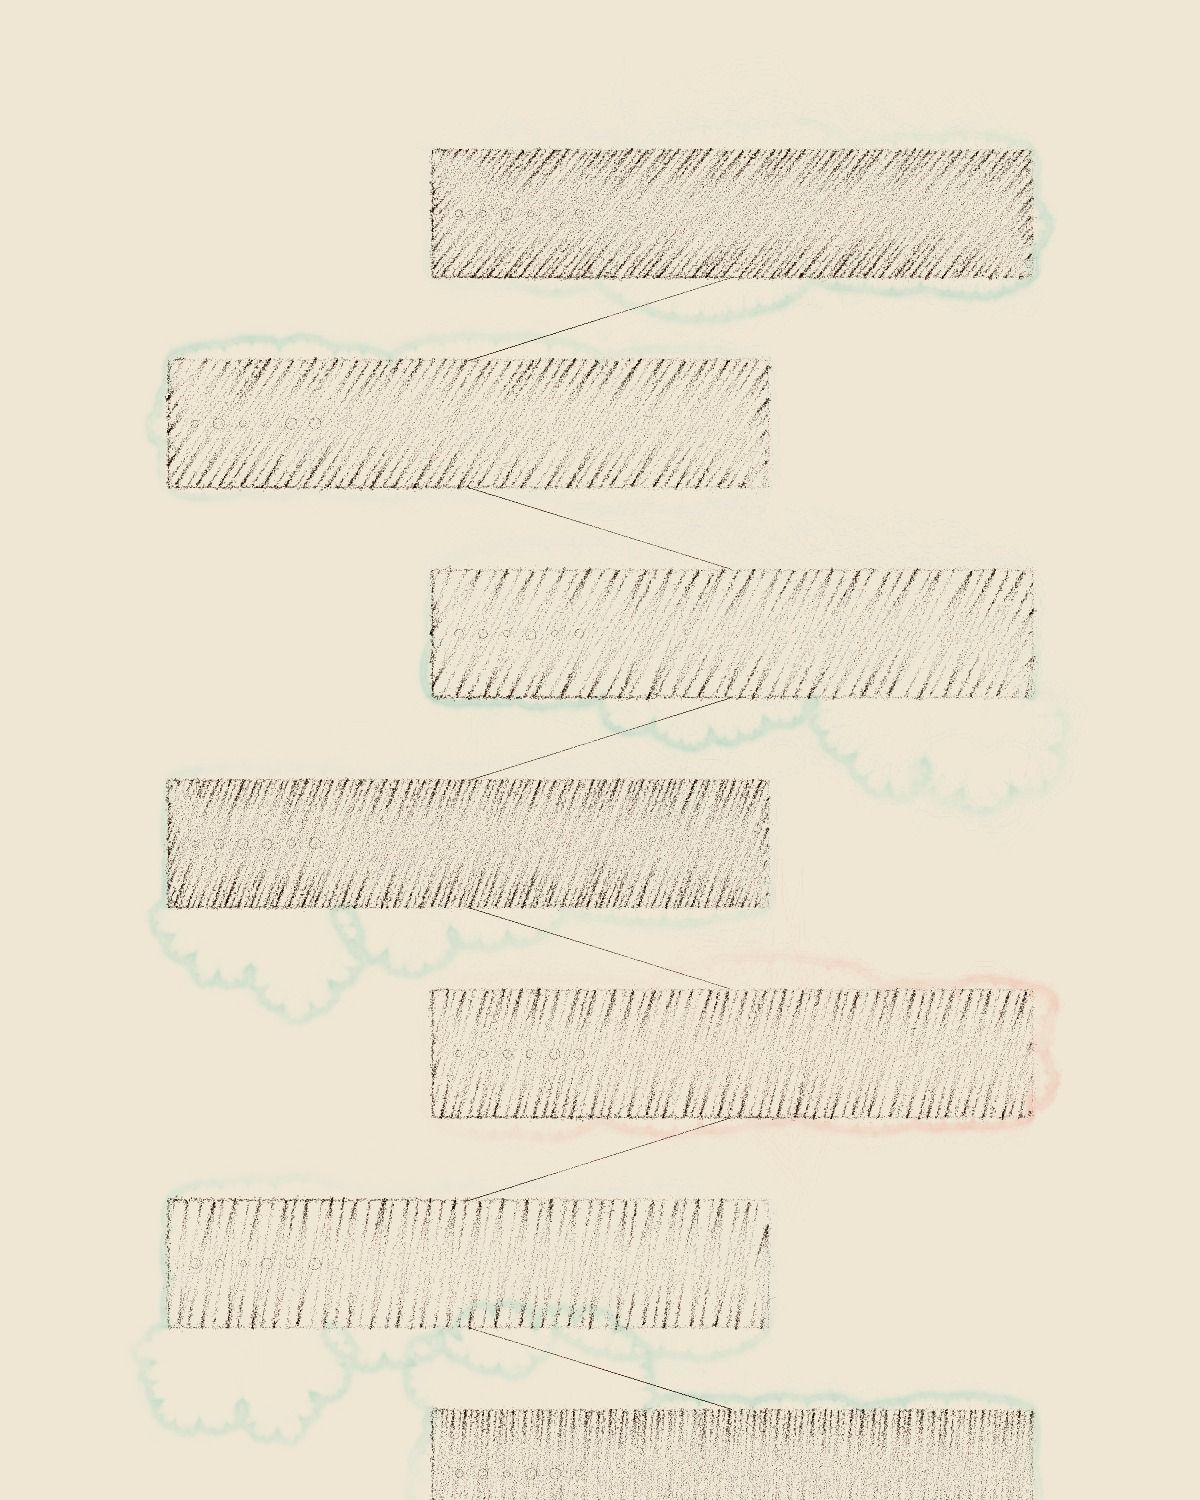
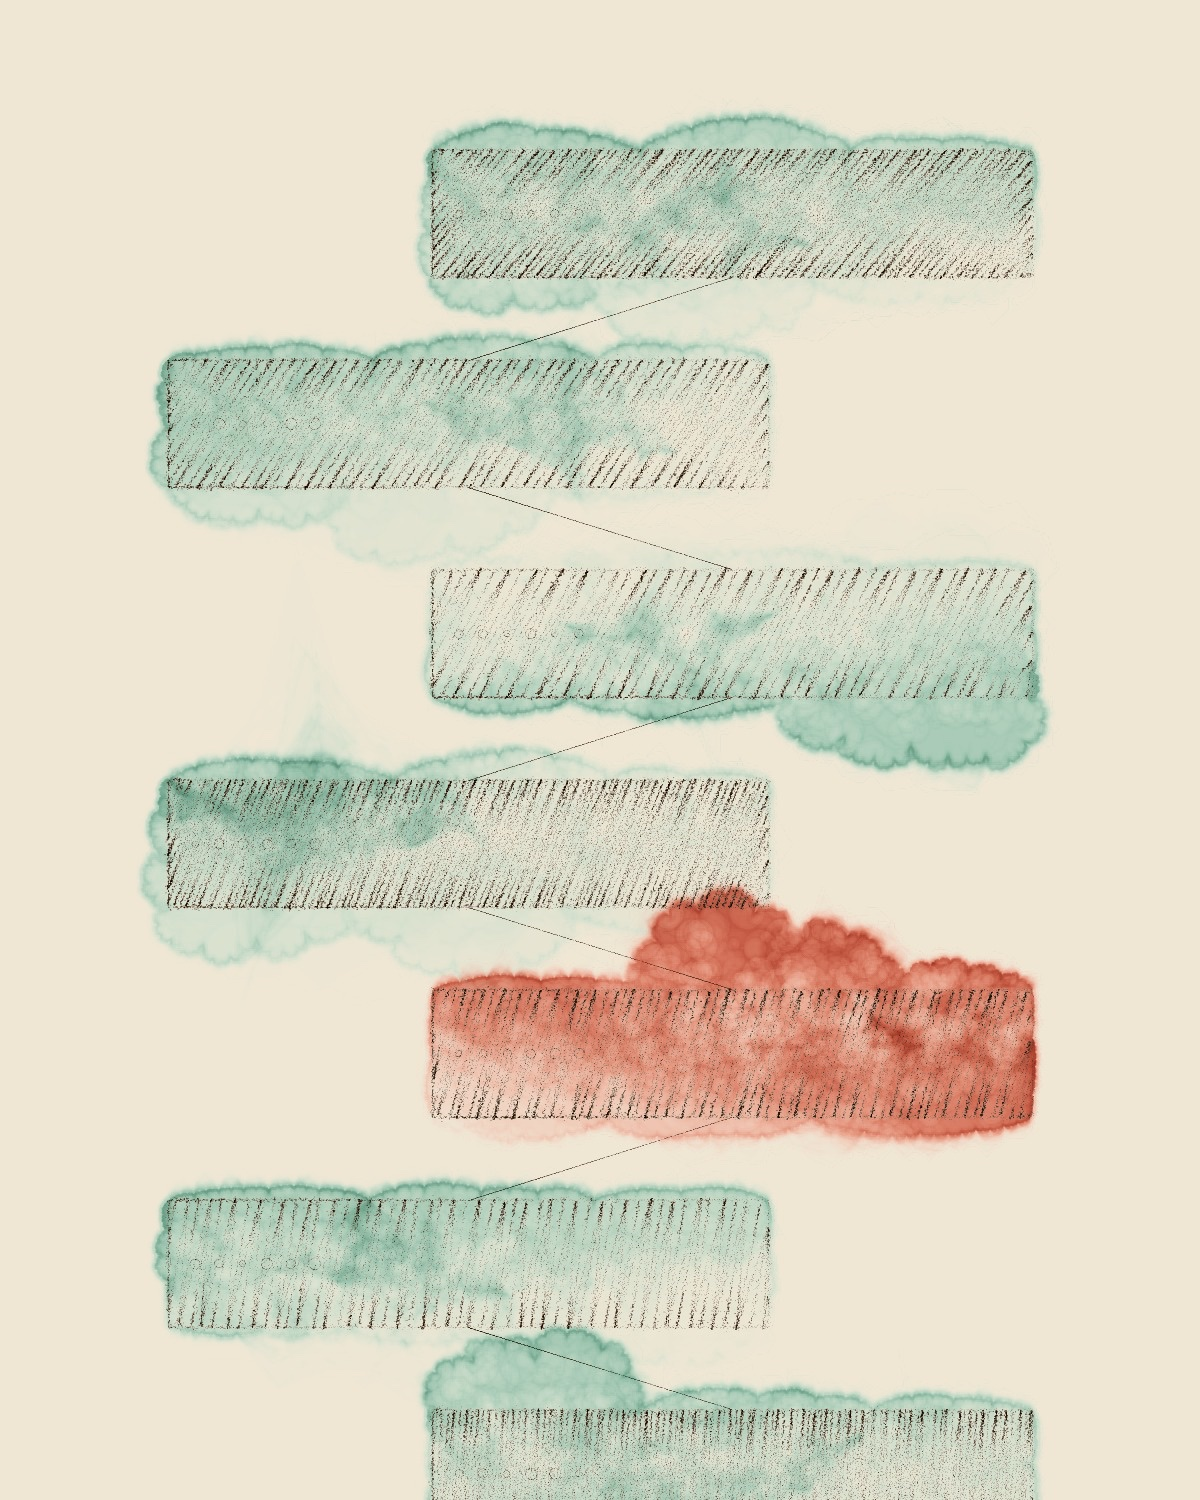
Core recipe: code beside the painting, built layer by layer; open contact form, clearer social links; drop template post

diff --git a/src/pages/CoreHome.tsx b/src/pages/CoreHome.tsx
@@ -1,4 +1,4 @@
-import { useEffect, useState } from 'react'
+import { useEffect, useRef, useState } from 'react'
 import { Link } from 'react-router-dom'
 import { ContactForm } from '../components/ContactForm'
 import { InkTrail } from '../components/InkTrail'
@@ -10,29 +10,84 @@ import { projects, builds } from '../content/projects'
 import { paintingSrc, plateSrc, plateSet, plateBySlug } from '../content/art'
 import { posts } from '../posts'
 
-/** "Recipe" for the paintings: steps, plus the real source of each plate, fetched only when opened. */
+/** Splits a plate's source at its layer('…') calls: a header, then one block of code per step. */
+function steps(src: string) {
+  const out: { label: string; code: string }[] = [{ label: '', code: '' }]
+  for (const line of src.split('\n')) {
+    const m = line.match(/^\s*layer\('(.+?)'\)/)
+    if (m) out.push({ label: m[1], code: line })
+    else out[out.length - 1].code += (out[out.length - 1].code ? '\n' : '') + line
+  }
+  return out
+}
+
+/**
+ * "Recipe" for the paintings: the steps in words, then each plate's real source beside the painting as it stood after
+ * every layer() step. Those in-between paintings were pre-rendered too, so nothing paints in the browser. The source
+ * and images load only when the recipe is opened.
+ */
 function Recipe() {
   const { l } = useI18n()
   const [code, setCode] = useState('')
   const [pick, setPick] = useState(projects[0].slug)
-  const load = () => { if (!code) import('../lab/art/plates.ts?raw').then((m) => setCode(m.default)) }
+  const [step, setStep] = useState(0)
+  const [playing, setPlaying] = useState(false)
+  const codeBox = useRef<HTMLDivElement>(null)
+  const load = () => { if (!code) import('../lab/art/plates.ts?raw').then((m) => { setCode(m.default); setStep(0); setPlaying(true) }) }
   const id = plateBySlug[pick]?.id
   const src = (code.match(new RegExp(`// <plate:${id}>([\\s\\S]*?)// </plate:${id}>`)) ?? [])[1]?.trim() ?? ''
+  const blocks = steps(src)
+  const n = blocks.length - 1
+  const img = (k: number) => (k === n ? paintingSrc(`plate-${id}`, 600) : `/art/paintings/plate-${id}-l${k}-600.jpg`)
+
+  // play through the layers one by one
+  useEffect(() => {
+    if (!playing) return
+    if (step >= n) { setPlaying(false); return }
+    const t = setTimeout(() => setStep((s) => s + 1), step === 0 ? 500 : 1300)
+    return () => clearTimeout(t)
+  }, [playing, step, n])
+  // keep the current block in view inside the code panel (without scrolling the page)
+  useEffect(() => {
+    const box = codeBox.current, cur = box?.querySelector<HTMLElement>('[data-cur]')
+    if (box && cur) box.scrollTo({ top: cur.offsetTop - 40, behavior: 'smooth' })
+  }, [step, pick])
+
+  const choose = (slug: string) => { setPick(slug); setStep(0); setPlaying(true) }
   return (
     <details className="one-recipe" onToggle={(e) => (e.currentTarget as HTMLDetailsElement).open && load()}>
       <summary>{l({ en: 'Every painting above was generated with JavaScript. ', es: 'Cada pintura de arriba se generó con JavaScript. ' })}<u>{l({ en: 'The recipe', es: 'La receta' })}</u></summary>
       <ol>
         <li>{l({ en: 'Pick one real number from the project: a fire spreading with the wind, a cost falling from $633 to $29, a score from deepfake to authentic.', es: 'Elige un número real del proyecto: un fuego que avanza con el viento, un coste que cae de 633 $ a 29 $, una puntuación de deepfake a auténtico.' })}</li>
-        <li>{l({ en: 'Draw it with p5.brush: watercolour washes, charcoal, pastel and pen on one WebGL canvas.', es: 'Dibújalo con p5.brush: aguadas de acuarela, carboncillo, pastel y pluma sobre un único lienzo WebGL.' })}</li>
+        <li>{l({ en: 'Draw it with p5.brush: watercolour washes, charcoal, pastel and pen on one WebGL canvas, one layer at a time.', es: 'Dibújalo con p5.brush: aguadas de acuarela, carboncillo, pastel y pluma sobre un único lienzo WebGL, capa a capa.' })}</li>
         <li>{l({ en: 'Seed the randomness so the same code paints the same picture every time.', es: 'Fija la semilla del azar para que el mismo código pinte siempre el mismo cuadro.' })}</li>
         <li>{l({ en: 'Paint once, save it as a JPG, and serve the image. Nothing is painted in your browser.', es: 'Píntalo una vez, guárdalo como JPG y sirve la imagen. Nada se pinta en tu navegador.' })}</li>
       </ol>
       <div className="one-recipe-tabs" role="tablist">
         {projects.filter((p) => plateBySlug[p.slug]).map((p) => (
-          <button key={p.slug} role="tab" aria-selected={pick === p.slug} onClick={() => setPick(p.slug)}>{p.title}</button>
+          <button key={p.slug} role="tab" aria-selected={pick === p.slug} onClick={() => choose(p.slug)}>{p.title}</button>
         ))}
       </div>
-      <pre className="one-recipe-code">{code ? src : '…'}</pre>
+      {code && (
+        <div className="one-split">
+          <div className="one-split-code" ref={codeBox}>
+            {blocks.map((b, k) => (
+              <button key={pick + k} className="one-block" data-state={k === 0 || k < step ? 'done' : k === step ? 'cur' : 'todo'} data-cur={k === step || undefined}
+                onClick={() => { setPlaying(false); setStep(k) }} disabled={k === 0}>
+                {b.label && <span className="one-block-label">{String(k).padStart(2, '0')} · {b.label}</span>}
+                <code>{b.code}</code>
+              </button>
+            ))}
+          </div>
+          <div className="one-split-art">
+            {blocks.slice(1).map((_, i) => <img key={pick + i} src={img(i + 1)} alt="" style={{ opacity: i + 1 <= step ? 1 : 0 }} />)}
+            <div className="one-split-bar">
+              <span>{step ? `${l({ en: 'Layer', es: 'Capa' })} ${step}/${n} · ${blocks[step].label}` : l({ en: 'Blank paper', es: 'Papel en blanco' })}</span>
+              <button onClick={() => { setStep(0); setPlaying(true) }}>{l({ en: 'Replay', es: 'Repetir' })}</button>
+            </div>
+          </div>
+        </div>
+      )}
     </details>
   )
 }
@@ -126,11 +181,14 @@ export default function CoreHome() {
       <section className="one-sec" id="contact">
         <h2>{l({ en: 'Contact', es: 'Contacto' })}</h2>
         <a className="one-mail" href={`mailto:${profile.email}`}>{profile.email}</a>
-        <p className="one-after"><a href={profile.linkedin} target="_blank" rel="noreferrer">LinkedIn</a>, <a href={profile.github} target="_blank" rel="noreferrer">GitHub</a></p>
-        <details className="one-form">
-          <summary>{l({ en: 'Or write here', es: 'O escribe aquí' })}</summary>
+        <div className="one-social">
+          <a href={profile.linkedin} target="_blank" rel="noreferrer">LinkedIn <span aria-hidden>↗</span></a>
+          <a href={profile.github} target="_blank" rel="noreferrer">GitHub <span aria-hidden>↗</span></a>
+        </div>
+        <div className="one-form">
+          <p className="one-dim">{l({ en: 'Or write here', es: 'O escribe aquí' })}</p>
           <ContactForm />
-        </details>
+        </div>
       </section>
 
       <footer className="one-foot"><span>© 2026</span><span>{l({ en: 'Hand-made in Madrid', es: 'Hecho a mano en Madrid' })}</span></footer>

diff --git a/src/lab/art/plates.ts b/src/lab/art/plates.ts
@@ -1,8 +1,9 @@
-import { rng, type Sketch } from './paint'
+import { rng, layer, type Sketch } from './paint'
 
 /**
  * Each plate is a short sketch painted with p5.brush from a real number in the project it illustrates.
- * The markers let the Plates page show the exact source ("view source").
+ * The markers let the Plates page show the exact source ("view source"). Each layer() call starts a step of the
+ * recipe; the site shows the painting as it stood after every step.
  */
 const INK = '#17110c'
 
@@ -11,9 +12,12 @@ const INK = '#17110c'
 export const plateFire: Sketch = (b, W, H) => {
   const R = rng(3)
   const wind = 16 // degrees of lean to the right
+  layer('Night sky')
   b.noStroke(); b.fill('#1b2b5a', 170); b.fillBleed(0.5); b.fillTexture(0.6, 0.5)
   b.rect(36, 36, W - 72, H * 0.5)
-  b.fill('#f2d9a0', 150); b.circle(W * 0.78, H * 0.17, 46) // moon
+  layer('Moon')
+  b.fill('#f2d9a0', 150); b.circle(W * 0.78, H * 0.17, 46)
+  layer('Fire front')
   // one flame stroke = a path that climbs, curls a little, and leans with the wind
   const flame = (x: number, y: number, len: number, curl: number) => {
     const pts: [number, number][] = [[x, y]]
@@ -32,9 +36,11 @@ export const plateFire: Sketch = (b, W, H) => {
     b.set(heat > 0.8 ? 'pastel' : heat > 0.35 ? 'charcoal' : '2B', heat > 0.86 ? '#f5c451' : heat > 0.5 ? '#ea5a2c' : heat > 0.2 ? '#a42d1a' : '#3a0f0a', 0.7 + R() * 1.5)
     b.spline(flame(x, y, len, 60), 1)
   }
+  layer('Embers')
   b.set('pen', '#f5c451', 0.5)
   for (let i = 0; i < 60; i++) b.circle(W * 0.1 + R() * W * 0.8, H * (0.1 + R() * 0.75), 0.8 + R() * 2.5) // embers
-  b.noStroke(); b.fill('#14100d', 230); b.rect(0, H * 0.965, W, H * 0.04) // ground
+  layer('Ground')
+  b.noStroke(); b.fill('#14100d', 230); b.rect(0, H * 0.965, W, H * 0.04)
 }
 // </plate:fire>
 
@@ -48,15 +54,19 @@ export const plateCost: Sketch = (b, W, H) => {
     const cost = 29 + (633 - 29) * Math.exp(-4.2 * t)
     pts.push([70 + t * (W - 140), H * 0.18 + (1 - (cost - 29) / 604) * H * 0.62])
   }
+  layer('Wash under the curve')
   b.noStroke(); b.fill('#1f6f6b', 175); b.fillBleed(0.5); b.fillTexture(0.55, 0.5)
   b.polygon([...pts, [W - 70, H * 0.84], [70, H * 0.84]])
+  layer('The line, five passes')
   b.noFill()
-  for (let k = 0; k < 5; k++) { // one hand, five passes
+  for (let k = 0; k < 5; k++) {
     b.set(k === 0 ? 'charcoal' : '2B', INK, 1.1 - k * 0.12)
     b.spline(pts.map(([x, y]) => [x + (R() - 0.5) * 5, y + (R() - 0.5) * 5 + k * 1.5]), 0.9)
   }
+  layer('Axis ticks')
   b.set('HB', INK, 0.5)
   for (let i = 0; i <= 10; i++) b.line(70 + (i / 10) * (W - 140), H * 0.84, 70 + (i / 10) * (W - 140), H * 0.865)
+  layer('$633 and $29')
   b.fill('#8c2a1b', 204); b.set('2B', INK, 0.6); b.circle(pts[0][0], pts[0][1], 20)
   b.fill('#1f6f6b', 230); b.circle(pts[24][0], pts[24][1], 8)
 }
@@ -69,17 +79,19 @@ export const plateChain: Sketch = (b, W, H) => {
   const n = 7, bw = W * 0.5, bh = H * 0.085
   const xs = (i: number) => (i % 2 ? W * 0.14 : W * 0.36)
   const ys = (i: number) => H * 0.1 + i * (bh + H * 0.055)
-  for (let i = 0; i < n; i++) {
-    if (i) { b.set('rotring', INK, 0.5); b.line(xs(i - 1) + bw / 2, ys(i - 1) + bh, xs(i) + bw / 2, ys(i)) }
-    const critical = i === 4
-    b.noStroke(); b.fill(critical ? '#8c2a1b' : '#2d5a45', critical ? 0.7 : 0.35); b.fillBleed(0.4)
-    b.rect(xs(i), ys(i), bw, bh)
-    b.set('HB', INK, 0.7); b.noFill()
-    b.hatch(4 + (i % 3) * 2, 50 + i * 6, { rand: 0.1, continuous: true })
-    b.rect(xs(i), ys(i), bw, bh)
-    b.noHatch()
-    for (let k = 0; k < 6; k++) { b.set('pen', INK, 0.35); b.circle(xs(i) + 18 + k * 16, ys(i) + bh / 2, 2 + R() * 2) } // hash nibbles
-  }
+  layer('Links')
+  b.set('rotring', INK, 0.5)
+  for (let i = 1; i < n; i++) b.line(xs(i - 1) + bw / 2, ys(i - 1) + bh, xs(i) + bw / 2, ys(i))
+  layer('Blocks, one critical')
+  b.noStroke(); b.fillBleed(0.4)
+  for (let i = 0; i < n; i++) { b.fill(i === 4 ? '#8c2a1b' : '#2d5a45', i === 4 ? 179 : 89); b.rect(xs(i), ys(i), bw, bh) }
+  layer('Hatching')
+  b.set('HB', INK, 0.7); b.noFill()
+  for (let i = 0; i < n; i++) { b.hatch(4 + (i % 3) * 2, 50 + i * 6, { rand: 0.1, continuous: true }); b.rect(xs(i), ys(i), bw, bh) }
+  b.noHatch()
+  layer('Hash nibbles')
+  b.set('pen', INK, 0.35)
+  for (let i = 0; i < n; i++) for (let k = 0; k < 6; k++) b.circle(xs(i) + 18 + k * 16, ys(i) + bh / 2, 2 + R() * 2)
 }
 // </plate:chain>
 
@@ -88,8 +100,10 @@ export const plateChain: Sketch = (b, W, H) => {
 export const plateStream: Sketch = (b, W, H) => {
   const R = rng(13)
   const n = 84, base = H * 0.8
+  layer('Chat window wash')
   b.noStroke(); b.fill('#6a2c91', 70); b.fillBleed(0.6); b.fillTexture(0.5, 0.5)
-  b.rect(40, H * 0.08, W - 80, H * 0.46) // the chat window, as a wash
+  b.rect(40, H * 0.08, W - 80, H * 0.46)
+  layer('Message velocity')
   b.noFill()
   for (let i = 0; i < n; i++) {
     const x = 70 + (i / (n - 1)) * (W - 140)
@@ -98,7 +112,9 @@ export const plateStream: Sketch = (b, W, H) => {
     b.set(spike ? 'crayon' : 'charcoal', spike ? '#e3a622' : i % 3 ? '#4b1f6e' : '#8a3fb4', spike ? 1.6 : 0.9)
     b.line(x, base, x + (R() - 0.5) * 6, base - h)
   }
+  layer('Baseline')
   b.set('2B', INK, 0.8); b.line(60, base + 10, W - 60, base + 10)
+  layer('Messages')
   b.noStroke(); b.fill('#c44db0', 180)
   for (let i = 0; i < 220; i++) b.circle(70 + R() * (W - 140), H * 0.1 + R() * H * 0.42, 0.8 + R() * 2.6) // messages
 }
@@ -109,7 +125,9 @@ export const plateStream: Sketch = (b, W, H) => {
 export const plateIris: Sketch = (b, W, H) => {
   const R = rng(21)
   const cx = W / 2, cy = H * 0.46
+  layer('Iris wash')
   b.noStroke(); b.fill('#2c5f8a', 89); b.fillBleed(0.5); b.circle(cx, cy, 300)
+  layer('Fibres, ordered to chaotic')
   const n = 190
   for (let i = 0; i < n; i++) {
     const a = (i / n) * 360
@@ -120,7 +138,9 @@ export const plateIris: Sketch = (b, W, H) => {
     b.set(score > 0.5 ? 'rotring' : '2B', score > 0.5 ? '#1d4e7a' : '#8c2a1b', 0.4 + (1 - score) * 0.7)
     b.line(cx + Math.cos((a * Math.PI) / 180) * r0, cy + Math.sin((a * Math.PI) / 180) * r0, cx + Math.cos((a * Math.PI) / 180) * r1 + jx, cy + Math.sin((a * Math.PI) / 180) * r1 + jy)
   }
+  layer('Pupil')
   b.noStroke(); b.fill('#0b0d12', 242); b.circle(cx, cy, 42)
+  layer('Rim')
   b.set('rotring', INK, 0.9); b.noFill(); b.circle(cx, cy, 285)
 }
 // </plate:iris>
@@ -139,11 +159,16 @@ export const plateHills: Sketch = (b, W, H) => {
     b.set('2B', INK, 0.5); b.noFill(); b.noWash(); b.hatch(7, hatchAngle, { rand: 0.15 })
     b.polygon(shape); b.noHatch()
   }
+  layer('Sky')
   b.noStroke(); b.fill('#9fc3e6', 150); b.fillBleed(0.6); b.rect(30, 30, W - 60, H * 0.5)
+  layer('Sun')
   b.fill('#f5c451', 230); b.circle(W * 0.7, H * 0.2, 62)
-  band(H * 0.5, 44, '#e4572e', 4, 35)   // CO2
-  band(H * 0.66, 38, '#3f8f4f', 8, -30) // land
-  band(H * 0.83, 26, '#2f6fa8', 12, 80) // water
+  layer('CO2')
+  band(H * 0.5, 44, '#e4572e', 4, 35)
+  layer('Land')
+  band(H * 0.66, 38, '#3f8f4f', 8, -30)
+  layer('Water')
+  band(H * 0.83, 26, '#2f6fa8', 12, 80)
 }
 // </plate:hills>
 

diff --git a/src/styles.css b/src/styles.css
@@ -298,12 +298,15 @@ html[data-mode=core],html[data-mode=core][data-theme]{--bg:#fff;--fg:#111;--dim:
 .one-d{color:var(--dim)}
 .one-m{text-align:right;color:var(--dim)}
 .one-after{margin:14px 0 0;color:var(--soft)}
-.one-after a,.one-form summary{text-decoration:underline;text-decoration-color:var(--line);text-underline-offset:3px}
+.one-after a{text-decoration:underline;text-decoration-color:var(--line);text-underline-offset:3px}
 .one-after a:hover{text-decoration-color:currentColor}
 .one-mail{display:inline-block;font:400 clamp(28px,5vw,64px)/1 var(--sans);letter-spacing:-.04em;text-decoration:none;margin-top:6px}
 .one-mail:hover{opacity:.55}
-.one-form{margin-top:22px;max-width:560px}
-.one-form summary{cursor:pointer;color:var(--dim);list-style:none}
+.one-form{margin-top:40px;max-width:560px}
+.one-form>p{margin:0}
+.one-social{display:flex;gap:10px;margin-top:22px}
+.one-social a{display:inline-flex;align-items:center;gap:8px;padding:10px 18px;border:1px solid var(--fg);border-radius:999px;text-decoration:none;font-size:14px;transition:background .2s,color .2s}
+.one-social a:hover{background:var(--fg);color:var(--bg)}
 .one-form .form{margin:14px 0 0}
 .one-form .form label{color:var(--dim);text-shadow:none}
 .one-form .form input,.one-form .form textarea{background:var(--bg);border-color:var(--line);border-radius:0;backdrop-filter:none}
@@ -336,4 +339,18 @@ html[data-mode=core],html[data-mode=core][data-theme]{--bg:#fff;--fg:#111;--dim:
 .one-recipe-tabs{display:flex;flex-wrap:wrap;gap:4px 16px;margin:22px 0 10px}
 .one-recipe-tabs button{font:inherit;font-size:13px;background:none;border:0;padding:0;color:var(--dim);cursor:pointer}
 .one-recipe-tabs button[aria-selected=true]{color:var(--fg);text-decoration:underline;text-underline-offset:3px}
-.one-recipe-code{font:12px/1.55 var(--mono);background:var(--card);color:var(--fg);padding:16px 18px;max-height:340px;overflow:auto;white-space:pre;margin:0}
+/* recipe: code on the left, the painting building up on the right */
+.one-split{display:grid;grid-template-columns:minmax(0,1fr) minmax(0,.8fr);border:1px solid var(--line)}
+.one-split-code{position:relative;overflow:auto;height:0;min-height:100%;background:var(--card);padding:10px 0}
+.one-block{display:block;width:100%;text-align:left;font:inherit;color:inherit;background:none;border:0;border-left:2px solid transparent;padding:6px 16px;cursor:pointer;transition:opacity .4s,border-color .4s,background .4s}
+.one-block:disabled{cursor:default}
+.one-block code{display:block;font:12px/1.6 var(--mono);font-variant-ligatures:none;white-space:pre-wrap;overflow-wrap:anywhere;color:var(--fg)}
+.one-block-label{display:block;font:11px var(--sans);color:var(--dim);margin-bottom:2px}
+.one-block[data-state=todo]{opacity:.28}
+.one-block[data-state=todo]:hover{opacity:.6}
+.one-block[data-state=cur]{border-left-color:var(--fg);background:var(--bg)}
+.one-split-art{position:relative;aspect-ratio:4/5;background:#efe6d4;align-self:start}
+.one-split-art img{position:absolute;inset:0;width:100%;height:100%;object-fit:cover;transition:opacity .9s ease}
+.one-split-bar{position:absolute;left:0;right:0;bottom:0;display:flex;justify-content:space-between;gap:12px;padding:10px 14px;font-size:12px;color:#3a332a;background:linear-gradient(transparent,rgba(239,230,212,.95) 40%)}
+.one-split-bar button{font:inherit;background:none;border:0;padding:0;color:inherit;text-decoration:underline;text-underline-offset:3px;cursor:pointer}
+@media(max-width:720px){.one-split{grid-template-columns:1fr}.one-split-art{order:-1}.one-split-code{height:auto;min-height:0;max-height:50vh}}

diff --git a/src/lab/art/paint.ts b/src/lab/art/paint.ts
@@ -7,7 +7,15 @@ import * as brush from 'p5.brush/standalone'
  */
 export type B = typeof brush
 export type Sketch = (b: B, W: number, H: number) => void
-export type PaintOpts = { W: number; H: number; bg?: string; seed?: number }
+export type PaintOpts = { W: number; H: number; bg?: string; seed?: number; layers?: number }
+
+// layer('name') marks the start of a step in a sketch. When painting with `layers: k`, the sketch stops at the
+// (k+1)th marker, which leaves the painting as it stood after k steps. Without `layers` it is a no-op.
+const STOP = Symbol('stop')
+let stopAt = Infinity, seen = 0
+export function layer(_name: string) { if (++seen > stopAt) throw STOP }
+/** How many layer() steps the last painting went through. */
+export const lastLayerCount = () => seen
 
 const MW = 2000, MH = 1500
 let master: HTMLCanvasElement | null = null
@@ -24,7 +32,7 @@ function init() {
   return master
 }
 
-export function paintToImage(key: string, sketch: Sketch, { W, H, bg = '#efe6d4', seed = 1 }: PaintOpts): Promise<string> {
+export function paintToImage(key: string, sketch: Sketch, { W, H, bg = '#efe6d4', seed = 1, layers = Infinity }: PaintOpts): Promise<string> {
   const hit = cache.get(key)
   if (hit) return Promise.resolve(hit)
   const run = busy.then(() => new Promise<string>((resolve, reject) => {
@@ -37,7 +45,9 @@ export function paintToImage(key: string, sketch: Sketch, { W, H, bg = '#efe6d4'
       brush.translate(-MW / 2, -MH / 2)
       brush.scale(s)
       brush.noField(); brush.noFill(); brush.noHatch(); brush.noMass(); brush.noWash(); brush.noClip()
-      sketch(brush, W, H)
+      seen = 0; stopAt = layers
+      try { sketch(brush, W, H) } catch (e) { if (e !== STOP) throw e }
+      stopAt = Infinity
       brush.pop()
       brush.render()
       // crop the painted region out of the master canvas

diff --git a/src/lab/Bake.tsx b/src/lab/Bake.tsx
@@ -1,5 +1,5 @@
 import { useEffect, useState } from 'react'
-import { paintToImage } from './art/paint'
+import { paintToImage, lastLayerCount } from './art/paint'
 import { PLATES } from './art/plates'
 import { faceSheet } from './art/faces'
 import { loadRef, makePortrait } from './art/portrait'
@@ -17,7 +17,11 @@ export default function Bake() {
       for (let i = 0; i < PLATES.length; i++) {
         const p = PLATES[i]
         await save(`plate-${p.id}`, await paintToImage(`bake-${p.id}`, p.sketch, { W: 800, H: 1000, seed: i + 1 }))
+        // the recipe on Core shows the painting after each layer() step; the last step is the full plate
+        const n = lastLayerCount()
+        for (let k = 1; k < n; k++) await save(`plate-${p.id}-l${k}`, await paintToImage(`bake-${p.id}-${k}`, p.sketch, { W: 800, H: 1000, seed: i + 1, layers: k }))
       }
+      if (location.search.includes('plates')) return say('done')
       await save('faces', await paintToImage('bake-faces', faceSheet, { W: 720, H: 960, bg: '#e8dfc9', seed: 77 }))
       const ref = await loadRef()
       await save('portrait', await paintToImage('bake-portrait', makePortrait(ref), { W: 720, H: 794, bg: '#efe6d4', seed: 42 }))
